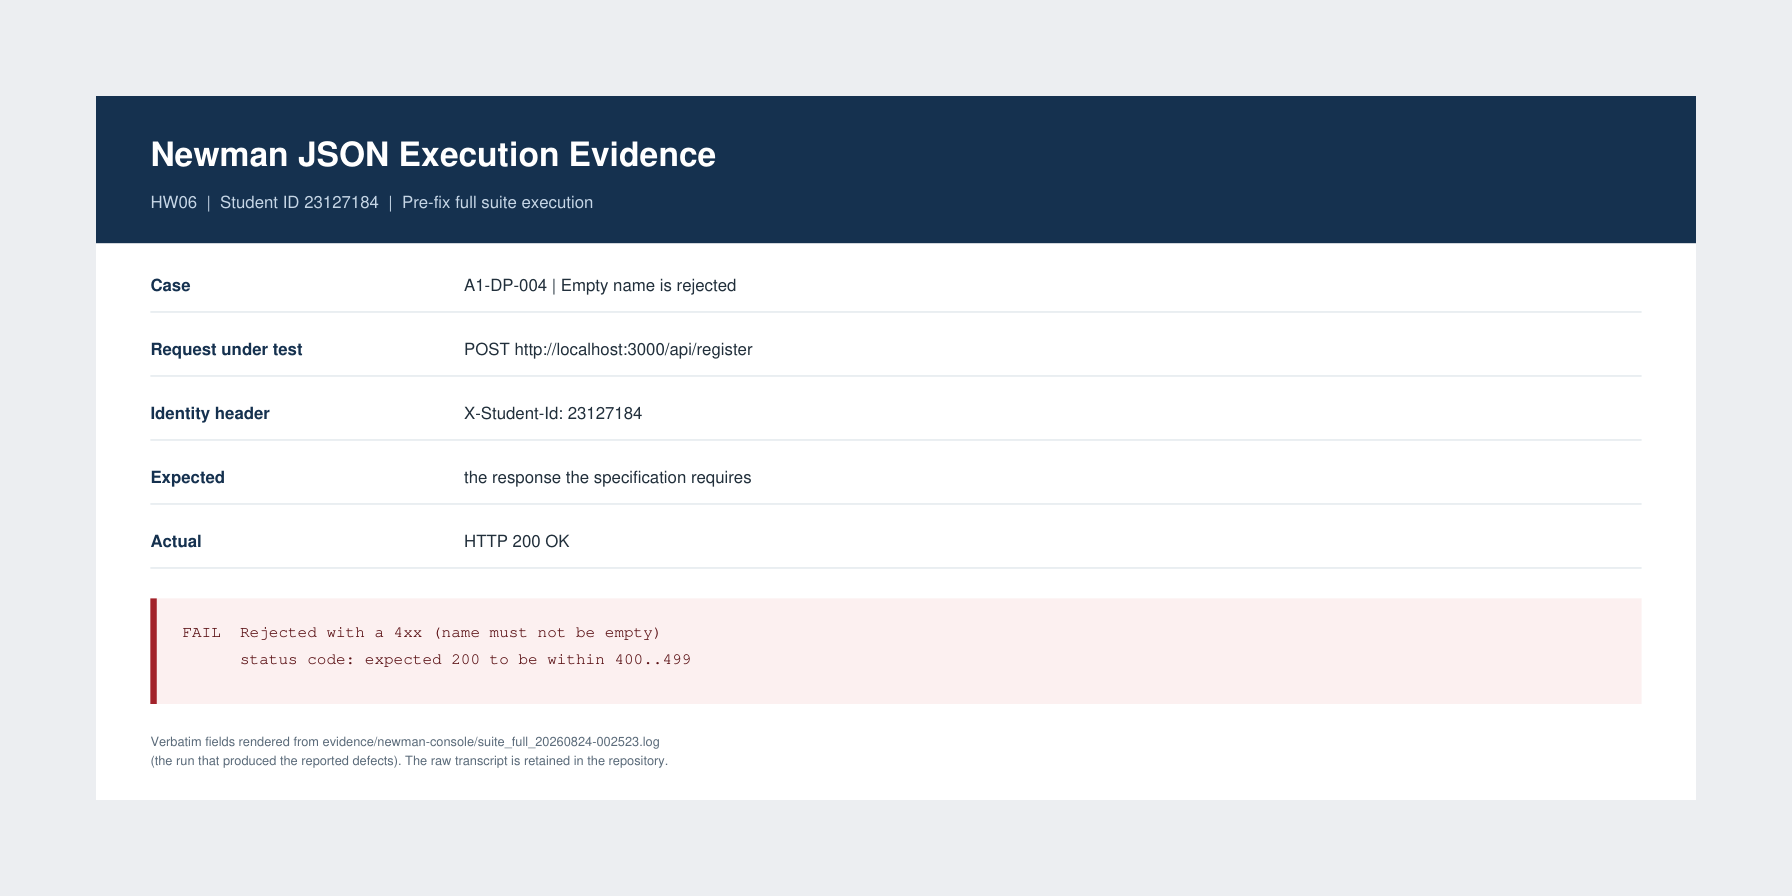
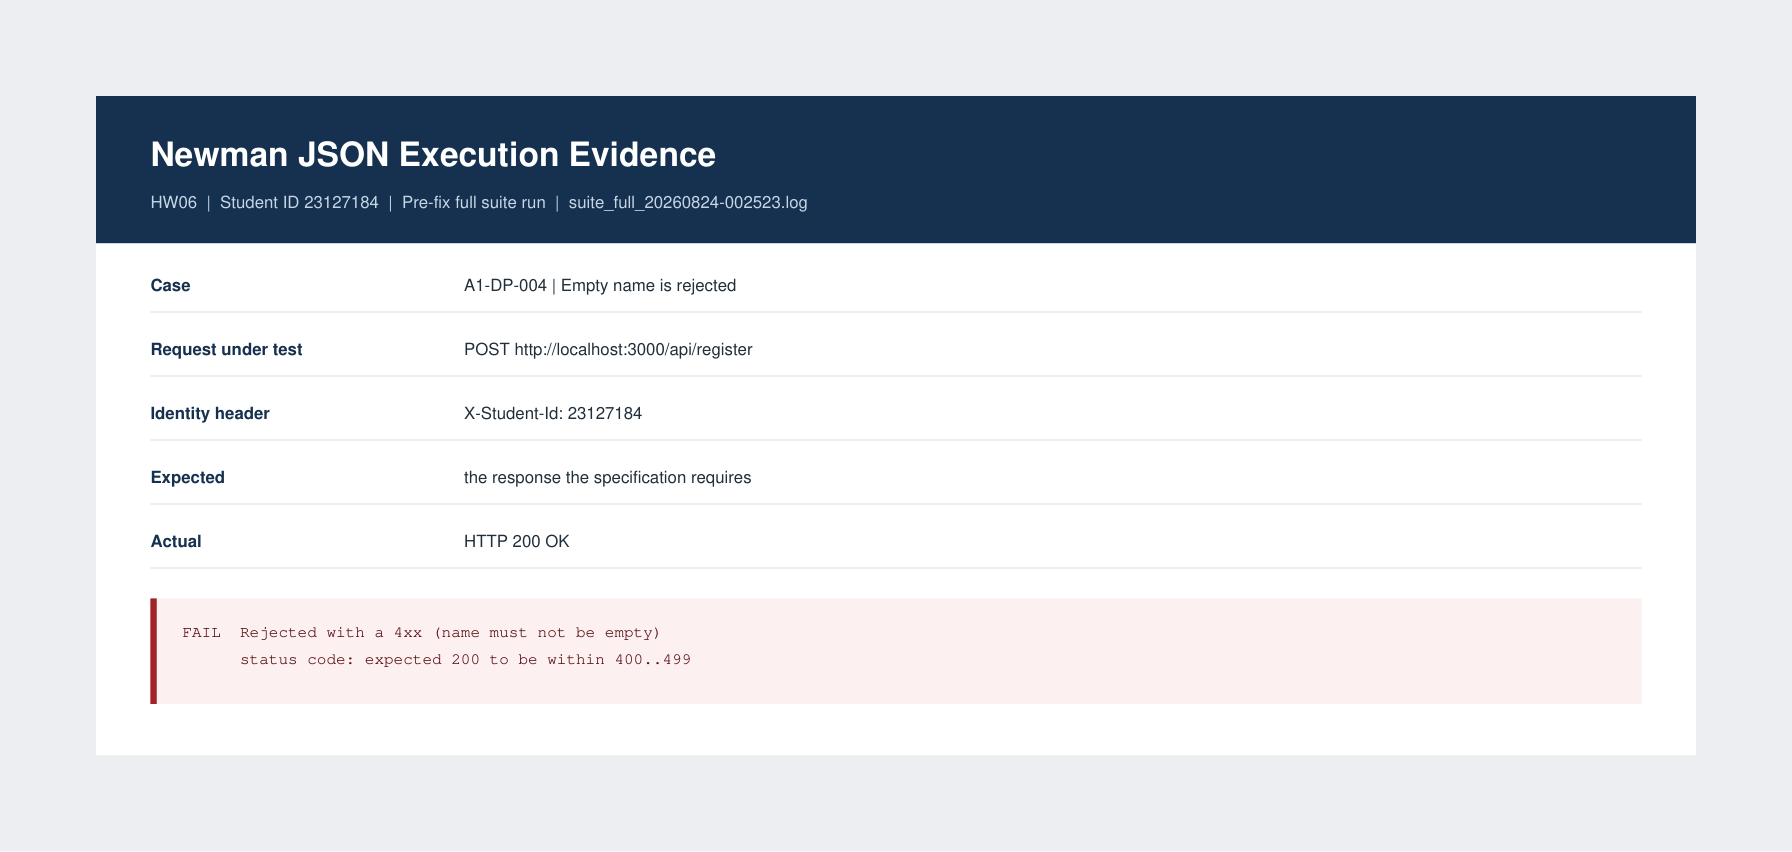
style(hw06): clean up the Newman evidence cards
The two grey lines under the failure box made the cards look cluttered. The
source transcript is now named in the header meta line beside the student ID,
where it reads as part of the card instead of a disclaimer bolted underneath.

Same 17 cards, same verbatim fields, nothing added or removed from the data.

diff --git a/HW06/scripts/build-issue-evidence.py b/HW06/scripts/build-issue-evidence.py
@@ -197,7 +197,9 @@ def render(issue: int, slug: str, run: dict, details: list[tuple[str, str]]) -> 
     header_h = 92.0
     rows_h = sum(ROW_H + 14 * (len(v) - 1) for _, v in wrapped) + 20
     fail_h = 20 + 17 * len(fail_lines) + 12
-    footer_h = 44.0
+    # The source transcript is named in the header line instead of a footer
+    # block, so the card only needs breathing room under the failure box.
+    footer_h = 16.0
     height = MARGIN * 2 + header_h + rows_h + 18 + fail_h + footer_h
 
     doc = fitz.open()
@@ -216,7 +218,7 @@ def render(issue: int, slug: str, run: dict, details: list[tuple[str, str]]) -> 
     )
     page.insert_text(
         (card.x0 + PAD, card.y0 + 70),
-        f"HW06  |  Student ID {STUDENT_ID}  |  Pre-fix full suite execution",
+        f"HW06  |  Student ID {STUDENT_ID}  |  Pre-fix full suite run  |  {LOG.name}",
         fontname="helv", fontsize=10.5, color=SUBTITLE,
     )
 
@@ -247,17 +249,6 @@ def render(issue: int, slug: str, run: dict, details: list[tuple[str, str]]) -> 
             (box.x0 + 20, ty), line, fontname="cour", fontsize=10, color=FAIL_INK
         )
         ty += 17
-
-    page.insert_text(
-        (card.x0 + PAD, box.y1 + 26),
-        f"Verbatim fields rendered from evidence/newman-console/{LOG.name}",
-        fontname="helv", fontsize=8, color=MUTED,
-    )
-    page.insert_text(
-        (card.x0 + PAD, box.y1 + 38),
-        "(the run that produced the reported defects). The raw transcript is retained in the repository.",
-        fontname="helv", fontsize=8, color=MUTED,
-    )
 
     out = OUT / f"github-issue-{issue}-{slug}-newman.png"
     page.get_pixmap(matrix=fitz.Matrix(1.6, 1.6)).save(out)
